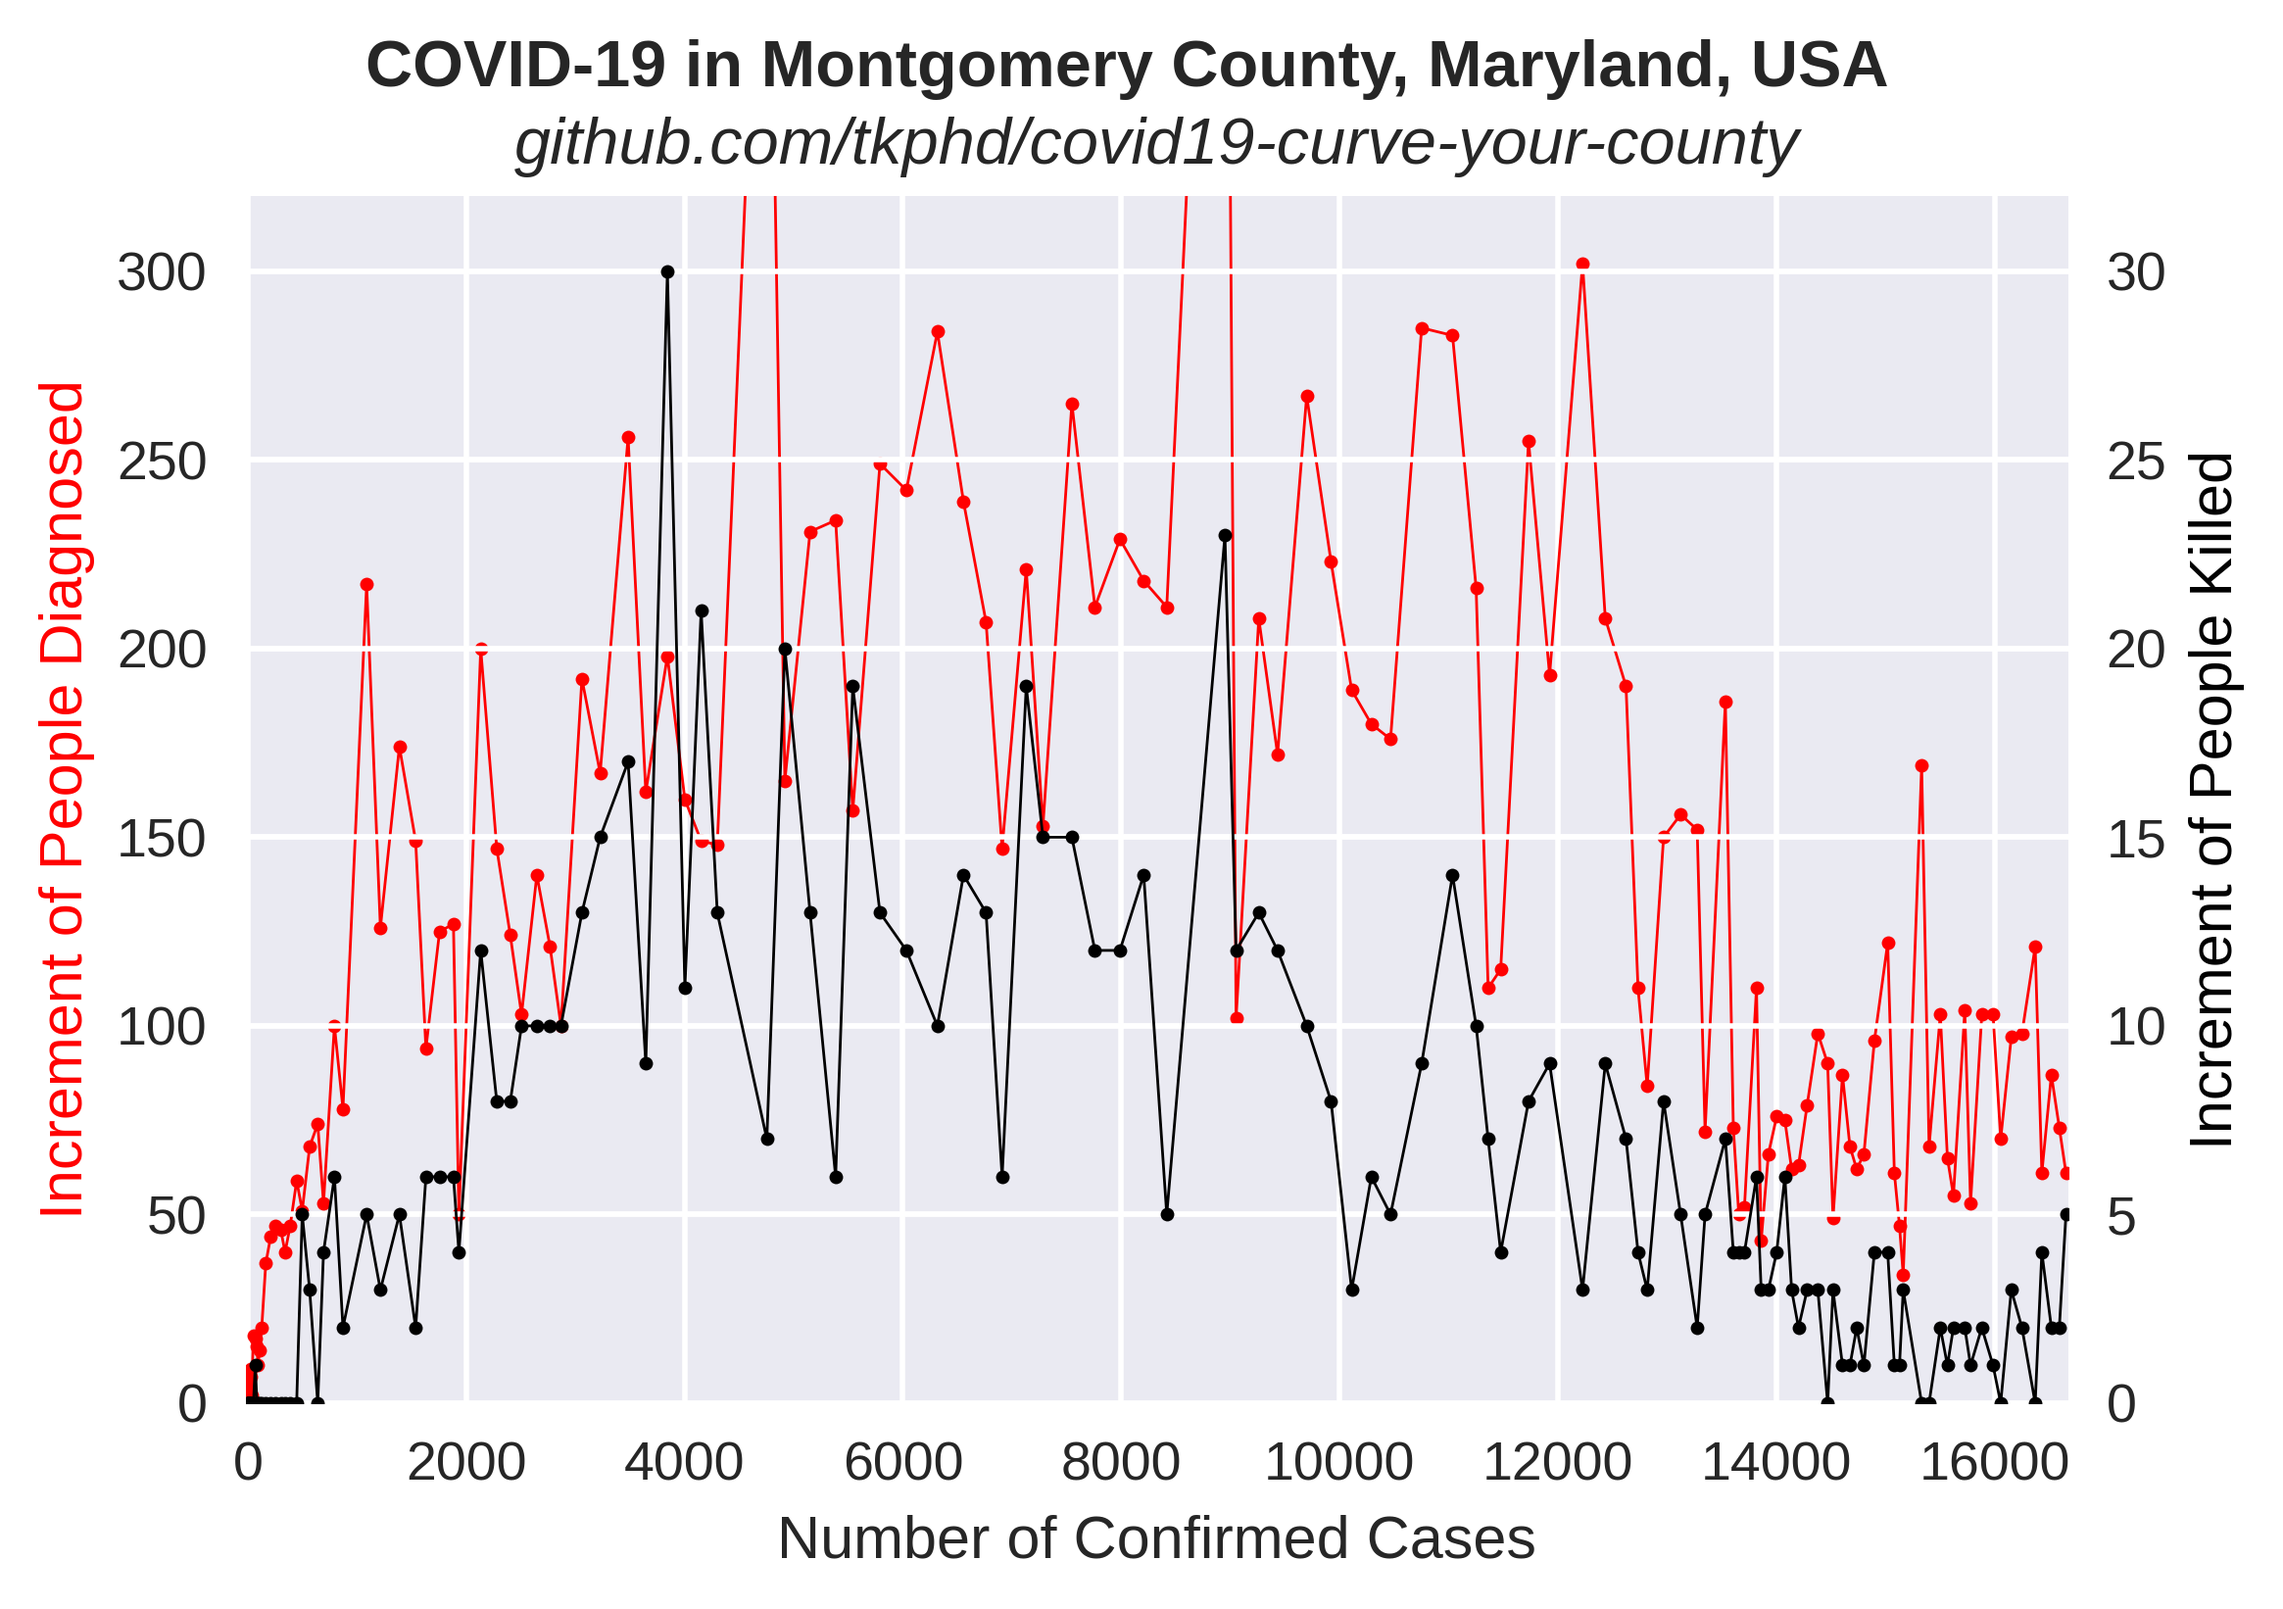
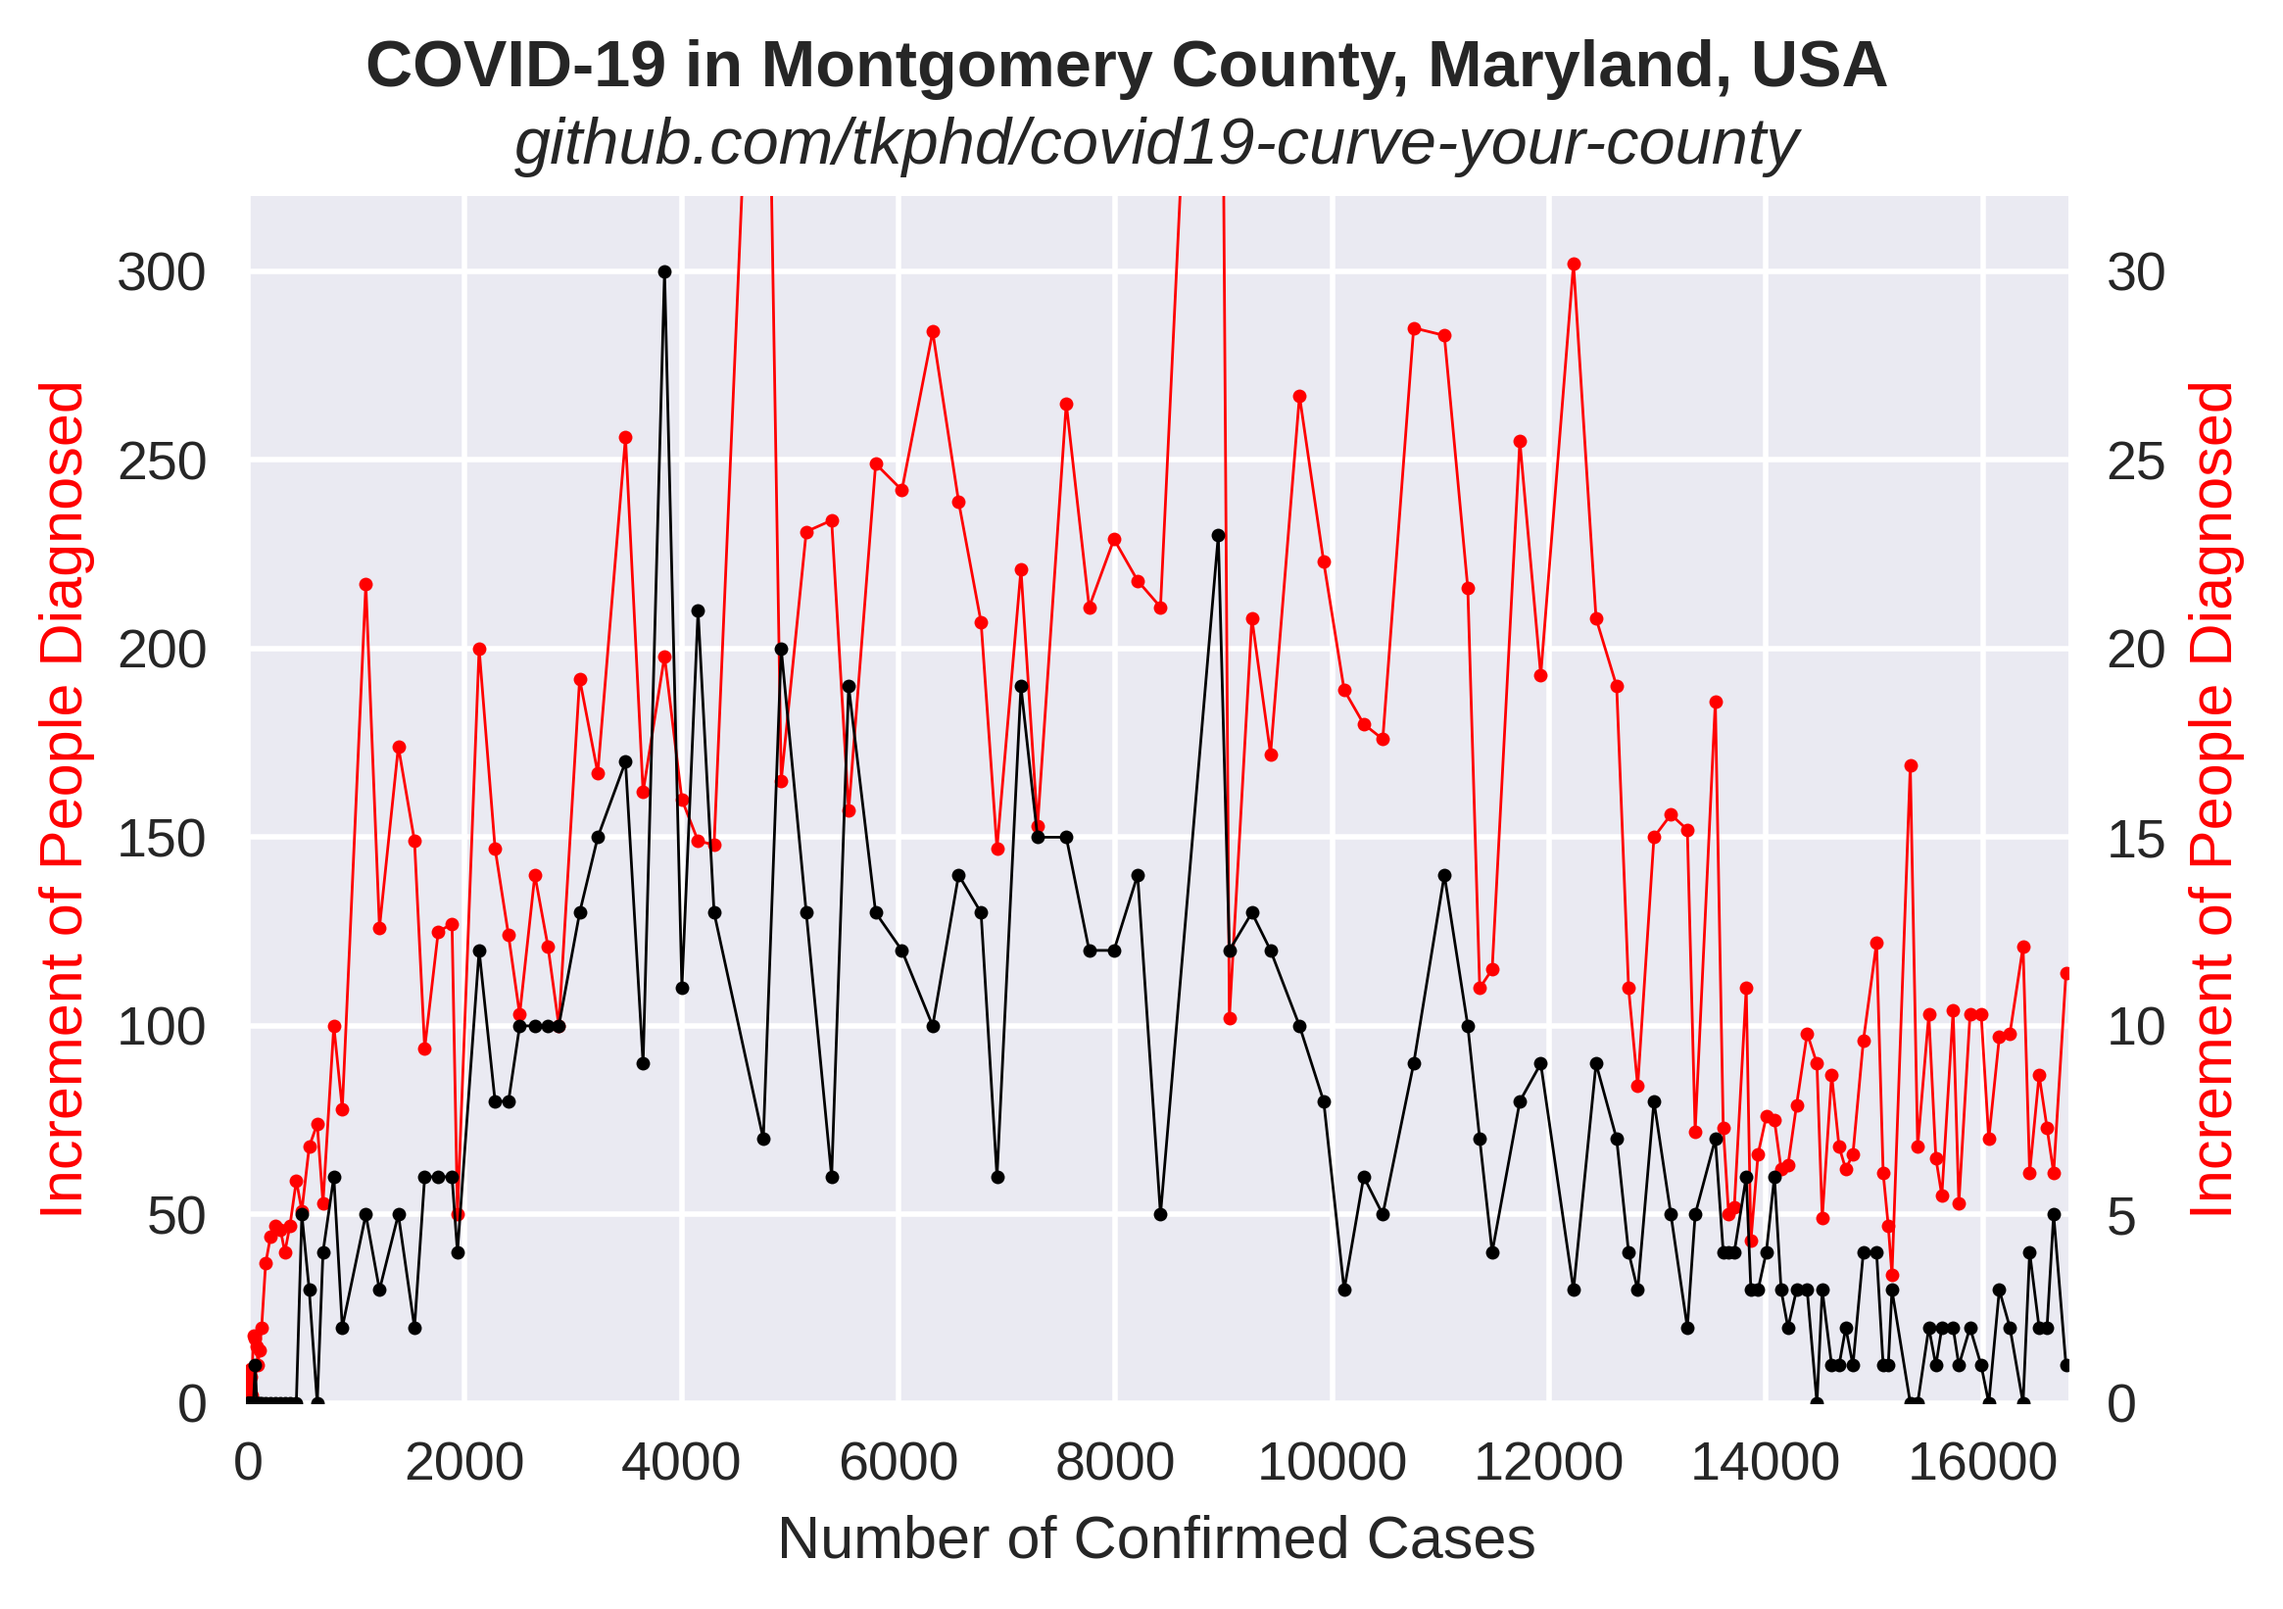
2020-07-24 update

diff --git a/exponential.py b/exponential.py
@@ -248,7 +248,6 @@ plt.close()
 fig, ax1 = plt.subplots(figsize=(6, 4))
 plt.suptitle("COVID-19 in Montgomery County, Maryland, USA", fontweight="bold")
 plt.title("github.com/tkphd/covid19-curve-your-county", style="oblique")
-ax1.set_xlabel("Number of Confirmed Cases")
 
 key = "diagnosed"
 x = np.array(data[key])
@@ -257,9 +256,15 @@ y = np.array(x)
 for i in np.arange(len(y) - 1, 1, -1):
     y[i] -= y[i - 1]
 
+ax1.set_xlabel("Number of Confirmed Cases")
 ax1.set_xlim([-20,np.max(x) + 20])
 ax1.set_ylim([0,320])
 ax1.set_ylabel("Increment of People {0}".format(key.capitalize()), color=colors[key])
+
+ax2 = ax1.twinx()
+ax2.set_ylim([0,32])
+ax2.set_ylabel("Increment of People {0}".format(key.capitalize()), color=colors[key])
+ax2.grid(b=False)
 
 ax1.plot(x, y, "-o", markersize=2.5, linewidth=0.5, color=colors[key], label=key.capitalize())
 
@@ -269,9 +274,6 @@ y = np.array(data[key])
 for i in np.arange(len(y) - 1, 1, -1):
     y[i] -= y[i - 1]
 
-ax2 = ax1.twinx()
-ax2.set_ylim([0,32])
-ax2.set_ylabel("Increment of People {0}".format(key.capitalize()), color=colors[key])
 ax2.plot(x, y, "-o", markersize=2.5, linewidth=0.5, color=colors[key], label=key.capitalize())
 
 plt.savefig("increment.png", dpi=400, bbox_inches="tight")
